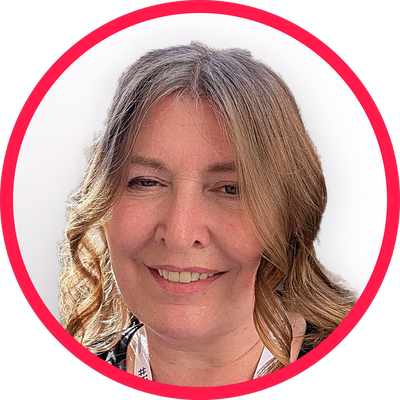
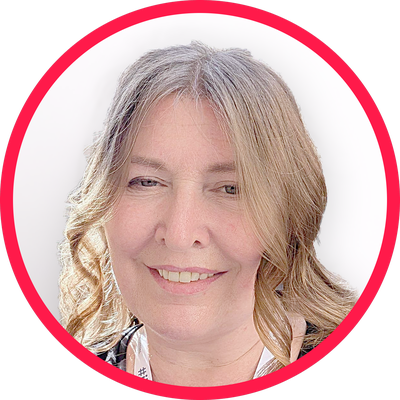
design(autoři): Kateřina – zesvětlený portrét, vyvážený s Michalem

diff --git a/packages/ui/src/components/AuthorByline.tsx b/packages/ui/src/components/AuthorByline.tsx
@@ -5,7 +5,7 @@ import classes from './AuthorByline.module.css';
 // jméno zkrátí na příjmení („Mahdalová & Škop“), aby se vešlo na jeden řádek
 // i v úzké kartě (celé jméno je v tooltipu). Fotky jsou v /public/authors.
 const AUTHOR_PHOTOS: Record<string, string> = {
-  'Kateřina Mahdalová': '/authors/katerina-mahdalova-portret.webp',
+  'Kateřina Mahdalová': '/authors/katerina-mahdalova-portret-v2.webp',
   'Michal Škop': '/authors/michal-skop-portret.webp',
 };
 

diff --git a/apps/web/components/dpbp/ArticleByline.tsx b/apps/web/components/dpbp/ArticleByline.tsx
@@ -18,7 +18,7 @@ import styles from './ArticleHeader.module.css';
 // a volitelně audio stopa. Používá ji hlavička článku i otvírák kapitoly.
 
 const AUTHOR_PHOTOS: Record<string, string> = {
-  'Kateřina Mahdalová': '/authors/katerina-mahdalova-portret.webp',
+  'Kateřina Mahdalová': '/authors/katerina-mahdalova-portret-v2.webp',
   'Michal Škop': '/authors/michal-skop-portret.webp',
 };
 

diff --git a/apps/web/lib/authorsProfile.ts b/apps/web/lib/authorsProfile.ts
@@ -23,7 +23,7 @@ export interface AuthorProfile {
 const PROFILES: AuthorProfile[] = [
   {
     name: 'Kateřina Mahdalová',
-    photo: '/authors/katerina-mahdalova-portret.webp',
+    photo: '/authors/katerina-mahdalova-portret-v2.webp',
     email: 'datovazurnalistika@gmail.com',
     // bio: '…', // TODO doplnit krátký medailonek (1–2 věty)
     social: {

diff --git a/apps/web/app/o-nas/AboutScrolly.tsx b/apps/web/app/o-nas/AboutScrolly.tsx
@@ -54,7 +54,7 @@ const steps: Step[] = [
     eyebrow: 'Šéfredaktorka & majitelka',
     title: 'Kateřina Mahdalová',
     portrait: {
-      src: '/authors/katerina-mahdalova-portret.webp',
+      src: '/authors/katerina-mahdalova-portret-v2.webp',
       alt: 'Portrét Kateřiny Mahdalové',
     },
     paragraphs: [
